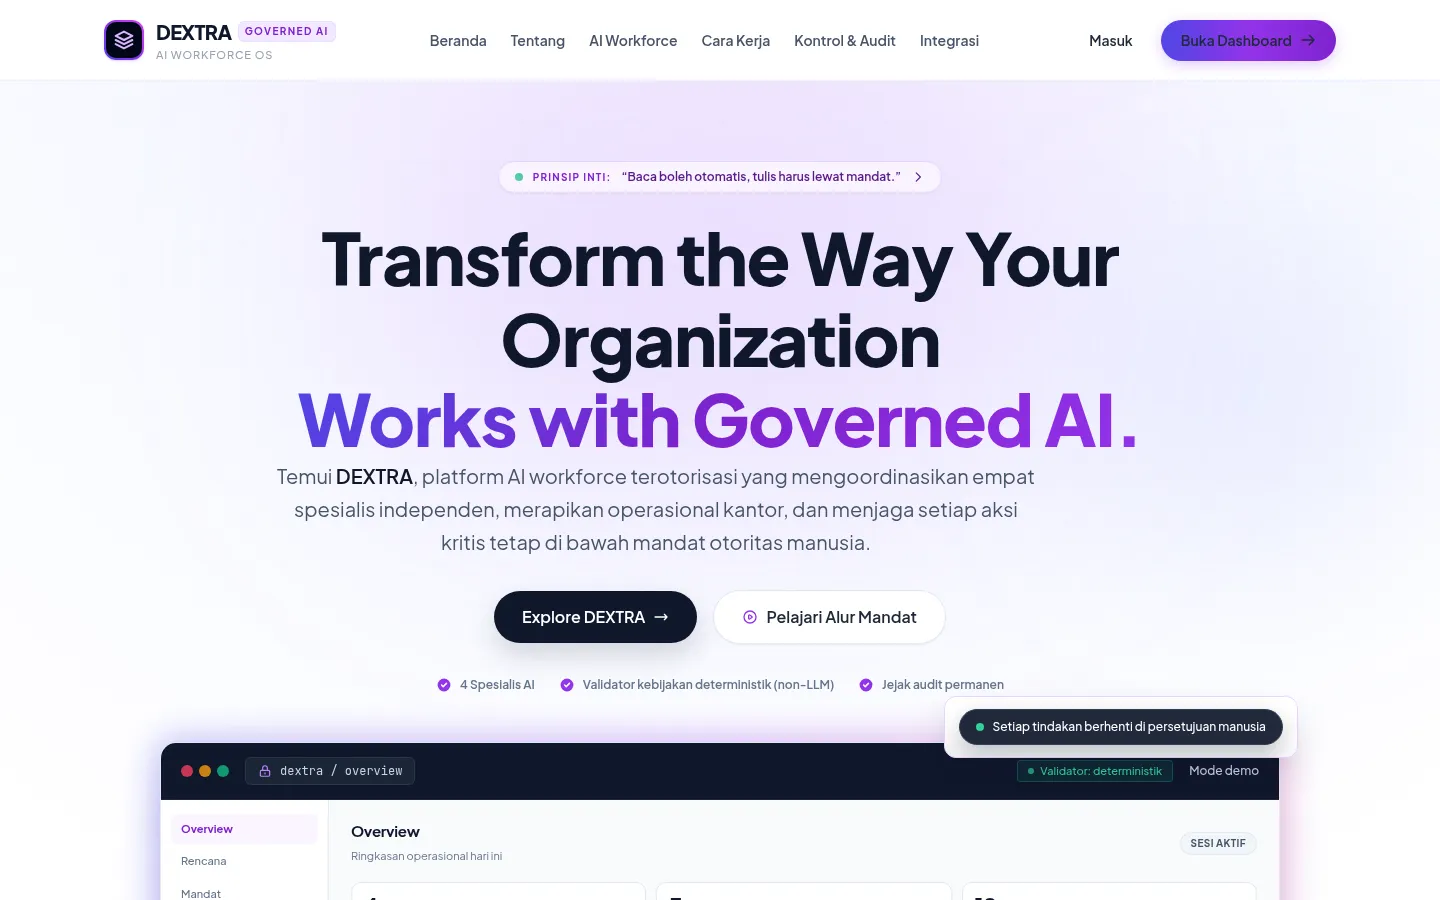
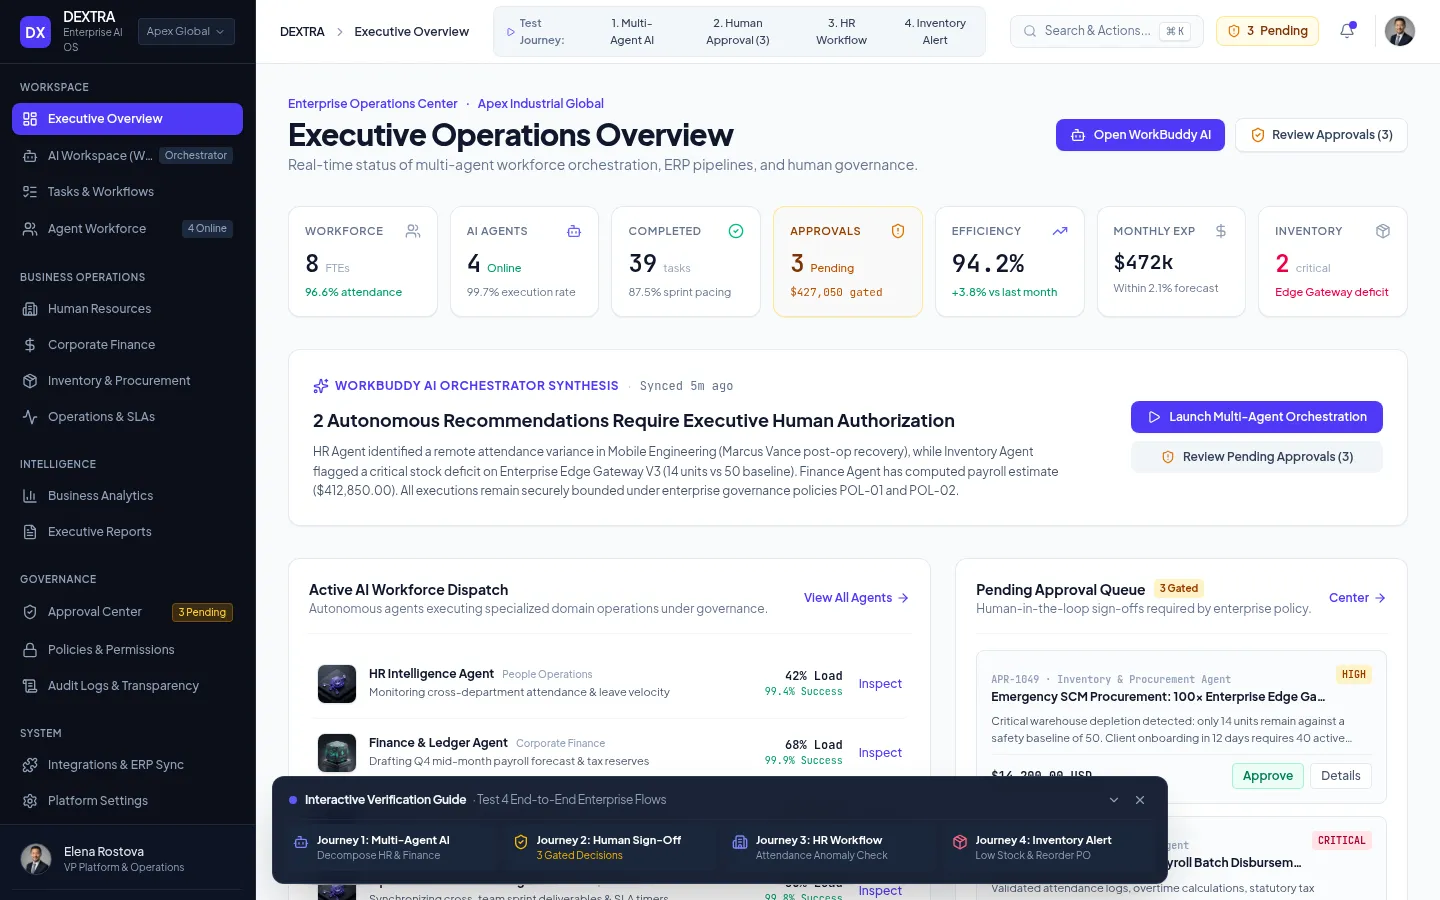
Fix contact typography, tighten hero top space, and use real DEXTRA dashboard screenshot

diff --git a/index-mobile.html b/index-mobile.html
@@ -139,7 +139,7 @@ section[id],div[id]{scroll-margin-top:calc(var(--header-h) + 16px)}
 @media(min-width:1024px){.site-nav{display:flex}.availability{display:inline-flex}.nav-toggle{display:none}.mobile-menu{display:none!important}}
 
 /* --- Hero: deep black, headline sangat besar, baris ke-2 outline --- */
-.hero{background:var(--black);color:var(--white);min-height:100svh;display:flex;align-items:center;padding-block:clamp(72px,11vw,132px) clamp(64px,9vw,120px)}
+.hero{background:var(--black);color:var(--white);min-height:100svh;display:flex;align-items:center;padding-block:clamp(32px,6vh,72px) clamp(64px,9vw,120px)}
 .hero__grid{display:grid;grid-template-columns:1fr;gap:48px;align-items:end}
 .hero__copy{max-width:920px}
 .hero__index{color:var(--muted)}
@@ -309,9 +309,11 @@ section[id],div[id]{scroll-margin-top:calc(var(--header-h) + 16px)}
 
 /* --- Contact: deep black, oversized white --- */
 .contact{padding-block:clamp(72px,11vw,132px) clamp(56px,8vw,96px)}
-.contact__head{max-width:68ch}
-.contact__title{margin-block:20px 28px;font-size:clamp(2.5rem,8vw,7rem);line-height:.9;letter-spacing:-.05em}
+.contact__head{max-width:100%;min-width:0}
+.contact__title{margin-block:20px 28px;font-size:clamp(2.5rem,6.5vw,6rem);line-height:.9;letter-spacing:-.05em;overflow-wrap:normal;word-break:keep-all;hyphens:none}
+.contact__title .cta-line{display:block}
 .contact__title .cta-line{color:var(--white)}
+@media(min-width:600px){.contact__title{font-size:clamp(3rem,6.5vw,6rem)}}
 .contact__grid{display:grid;grid-template-columns:1fr;gap:48px;margin-top:clamp(48px,7vw,88px);padding-top:32px;border-top:1px solid var(--panel)}
 .contact__chips{display:flex;flex-wrap:wrap;gap:10px 20px;margin-top:16px;color:var(--muted)}
 .contact__chips li{border-bottom:1px solid var(--panel);padding-bottom:2px}
@@ -415,6 +417,7 @@ html.has-motion .timeline__progress{transform:scaleY(var(--progress,0))}
 .btn:focus-visible,summary:focus-visible,.site-footer a:focus-visible{outline:2px solid var(--white);outline-offset:3px}
 .btn--light:active{transform:translateY(1px)}
 .h1,.h2,.h3,.contact__title{overflow-wrap:break-word}
+.charcoal .contact__title{overflow-wrap:normal;word-break:keep-all;hyphens:none}
 @media(max-width:419px){.status{white-space:normal;max-width:100%}.hero__actions{flex-wrap:wrap}}
 
 /* Magnetic P5 hanya pointer presisi + no-preference, maks 4px. */
@@ -497,8 +500,8 @@ html.has-motion .timeline__progress{transform:scaleY(var(--progress,0))}
       </div>
       <div class="project-card__body">
         <figure class="project-screenshot">
-          <div class="screenshot-frame"><img src="./screenshots/dextra.webp" width="1440" height="900" loading="lazy" alt="Screenshot antarmuka DEXTRA asli: halaman landing dengan dashboard overview, empat spesialis AI, dan validator deterministik."></div>
-          <figcaption class="meta-label">Captured from the live prototype · 28 Nov 2026</figcaption>
+          <div class="screenshot-frame"><img src="./screenshots/dextra.webp" width="1440" height="900" loading="lazy" alt="Screenshot dashboard DEXTRA asli: Executive Operations Overview dengan metrik workforce, approval queue, dan human authorization."></div>
+          <figcaption class="meta-label">Captured from the live dashboard · 28 Nov 2026</figcaption>
         </figure>
         <p class="body project-card__desc">An interactive prototype for governed AI operations, not an enterprise production deployment. Four specialists cover Finance, HR, Inventory, and Operations. AI reads, analyzes, and recommends. Any action that changes data or the outside world requires an approved plan, a human mandate, and an audit record. The Policy Validator is a deterministic governance engine, not an AI agent.</p>
         <dl class="project-facts"><div><dt>Problem</dt><dd>Operational work spread across tools without clear authority or a traceable record of execution.</dd></div><div><dt>Contribution</dt><dd>Designed around specialized AI workers, human-defined authority, and approval-based execution.</dd></div><div><dt>Governance</dt><dd>AI reads, analyzes and recommends. Any action that changes data or the outside world requires an approved plan, a human mandate, and an <strong>audit record</strong>. Four specialists: Finance, HR, Inventory, Operations. The <strong>Policy Validator</strong> is a deterministic governance engine, not an AI agent. Interactive prototype, not a production enterprise system.</dd></div><div><dt>Stack</dt><dd>Next.js, React, Python, FastAPI, MCP, deterministic policy validation, audit trails.</dd></div></dl>

diff --git a/index.html b/index.html
@@ -139,7 +139,7 @@ section[id],div[id]{scroll-margin-top:calc(var(--header-h) + 16px)}
 @media(min-width:1024px){.site-nav{display:flex}.availability{display:inline-flex}.nav-toggle{display:none}.mobile-menu{display:none!important}}
 
 /* --- Hero: deep black, headline sangat besar, baris ke-2 outline --- */
-.hero{background:var(--black);color:var(--white);min-height:100svh;display:flex;align-items:center;padding-block:clamp(72px,11vw,132px) clamp(64px,9vw,120px)}
+.hero{background:var(--black);color:var(--white);min-height:100svh;display:flex;align-items:center;padding-block:clamp(32px,6vh,72px) clamp(64px,9vw,120px)}
 .hero__grid{display:grid;grid-template-columns:1fr;gap:48px;align-items:end}
 .hero__copy{max-width:920px}
 .hero__index{color:var(--muted)}
@@ -309,9 +309,11 @@ section[id],div[id]{scroll-margin-top:calc(var(--header-h) + 16px)}
 
 /* --- Contact: deep black, oversized white --- */
 .contact{padding-block:clamp(72px,11vw,132px) clamp(56px,8vw,96px)}
-.contact__head{max-width:68ch}
-.contact__title{margin-block:20px 28px;font-size:clamp(2.5rem,8vw,7rem);line-height:.9;letter-spacing:-.05em}
+.contact__head{max-width:100%;min-width:0}
+.contact__title{margin-block:20px 28px;font-size:clamp(2.5rem,6.5vw,6rem);line-height:.9;letter-spacing:-.05em;overflow-wrap:normal;word-break:keep-all;hyphens:none}
+.contact__title .cta-line{display:block}
 .contact__title .cta-line{color:var(--white)}
+@media(min-width:600px){.contact__title{font-size:clamp(3rem,6.5vw,6rem)}}
 .contact__grid{display:grid;grid-template-columns:1fr;gap:48px;margin-top:clamp(48px,7vw,88px);padding-top:32px;border-top:1px solid var(--panel)}
 .contact__chips{display:flex;flex-wrap:wrap;gap:10px 20px;margin-top:16px;color:var(--muted)}
 .contact__chips li{border-bottom:1px solid var(--panel);padding-bottom:2px}
@@ -415,6 +417,7 @@ html.has-motion .timeline__progress{transform:scaleY(var(--progress,0))}
 .btn:focus-visible,summary:focus-visible,.site-footer a:focus-visible{outline:2px solid var(--white);outline-offset:3px}
 .btn--light:active{transform:translateY(1px)}
 .h1,.h2,.h3,.contact__title{overflow-wrap:break-word}
+.charcoal .contact__title{overflow-wrap:normal;word-break:keep-all;hyphens:none}
 @media(max-width:419px){.status{white-space:normal;max-width:100%}.hero__actions{flex-wrap:wrap}}
 
 /* Magnetic P5 hanya pointer presisi + no-preference, maks 4px. */
@@ -497,8 +500,8 @@ html.has-motion .timeline__progress{transform:scaleY(var(--progress,0))}
       </div>
       <div class="project-card__body">
         <figure class="project-screenshot">
-          <div class="screenshot-frame"><img src="./screenshots/dextra.webp" width="1440" height="900" loading="lazy" alt="Screenshot antarmuka DEXTRA asli: halaman landing dengan dashboard overview, empat spesialis AI, dan validator deterministik."></div>
-          <figcaption class="meta-label">Captured from the live prototype · 28 Nov 2026</figcaption>
+          <div class="screenshot-frame"><img src="./screenshots/dextra.webp" width="1440" height="900" loading="lazy" alt="Screenshot dashboard DEXTRA asli: Executive Operations Overview dengan metrik workforce, approval queue, dan human authorization."></div>
+          <figcaption class="meta-label">Captured from the live dashboard · 28 Nov 2026</figcaption>
         </figure>
         <p class="body project-card__desc">An interactive prototype for governed AI operations, not an enterprise production deployment. Four specialists cover Finance, HR, Inventory, and Operations. AI reads, analyzes, and recommends. Any action that changes data or the outside world requires an approved plan, a human mandate, and an audit record. The Policy Validator is a deterministic governance engine, not an AI agent.</p>
         <dl class="project-facts"><div><dt>Problem</dt><dd>Operational work spread across tools without clear authority or a traceable record of execution.</dd></div><div><dt>Contribution</dt><dd>Designed around specialized AI workers, human-defined authority, and approval-based execution.</dd></div><div><dt>Governance</dt><dd>AI reads, analyzes and recommends. Any action that changes data or the outside world requires an approved plan, a human mandate, and an <strong>audit record</strong>. Four specialists: Finance, HR, Inventory, Operations. The <strong>Policy Validator</strong> is a deterministic governance engine, not an AI agent. Interactive prototype, not a production enterprise system.</dd></div><div><dt>Stack</dt><dd>Next.js, React, Python, FastAPI, MCP, deterministic policy validation, audit trails.</dd></div></dl>

diff --git a/src/styles/global.css b/src/styles/global.css
@@ -629,6 +629,12 @@ a, button, summary, label, .project-flow__label { touch-action: manipulation; }
 /* Headline tidak meluber di 360px: kata panjang dipecah, bukan di-clip. */
 .h1, .h2, .h3, .contact__title { overflow-wrap: break-word; }
 .hero__headline { hyphens: none; }
+/* Contact: head selebar container supaya headline tidak terpotong per kata;
+   dua baris disengaja dan kata tidak dipecah (R-31). */
+.contact__head { max-width: 100%; min-width: 0; }
+.charcoal .contact__title { word-break: keep-all; overflow-wrap: normal; hyphens: none; }
+/* Cover: spasi atas antara navbar dan metadata dirapikan. */
+.hero { padding-block-start: clamp(32px, 6vh, 72px); }
 /* .meta-label (0.75rem) dan .mono (0.8125rem) sudah >=12px dari aturan P1;
    tidak diturunkan di sini. */
 /* Badge status boleh turun baris di layar sempit (<420px). */

diff --git a/public/screenshots/README.md b/public/screenshots/README.md
@@ -6,12 +6,14 @@ Screenshot asli sudah tersedia dan terpasang di portfolio.
 
 | File | Sumber | Capture |
 | --- | --- | --- |
-| `dextra.webp` | https://dextra-office-agent.vercel.app | 28 Nov 2026 |
+| `dextra.webp` | https://dextra-office-agent.vercel.app/overview | 28 Nov 2026 |
 | `ai-detector.webp` | https://ai-detector-mahasiswa.vercel.app | 28 Nov 2026 |
 
-Keduanya berasal dari PNG yang diambil dari aplikasi yang benar-benar berjalan di Chromium headless, lalu dikonversi ke WebP (1440 × 900, kualitas 80). Isi screenshot tidak digambar ulang dan tidak dipalsukan.
+Keduanya berasal dari PNG yang diambil dari aplikasi yang benar-benar berjalan di Chromium headless, lalu dikonversi ke WebP (1440 × 900, kualitas 80). Isi screenshot tidak digambar ulang, tidak di-crop, dan tidak dipalsukan.
 
-`dextra.webp` menampilkan landing DEXTRA dengan tampilan dashboard asli di bagian bawah. `ai-detector.webp` menampilkan editor contoh teks dengan hasil analisis 68% beserta bagian yang ditandai. Angka 68% adalah contoh pada halaman tersebut, bukan metrik produk yang diklaim.
+`dextra.webp` menampilkan **dashboard asli** DEXTRA pada `/overview`: sidebar DEXTRA AI WORKFORCE OS, Executive Operations Overview, metrik workforce (8 FTEs, 4 AI Agents, 39 Completed, 3 Approvals Pending, 94.2% Efficiency), banner "2 Autonomous Recommendations Require Executive Human Authorization", dan Pending Approval Queue. Screenshot lama yang menampilkan halaman landing sudah diganti dengan capture dashboard ini pada 28 Nov 2026.
+
+`ai-detector.webp` menampilkan editor contoh teks dengan hasil analisis 68% beserta bagian yang ditandai. Angka 68% adalah contoh pada halaman tersebut, bukan metrik produk yang diklaim.
 
 ## Experimental
 
